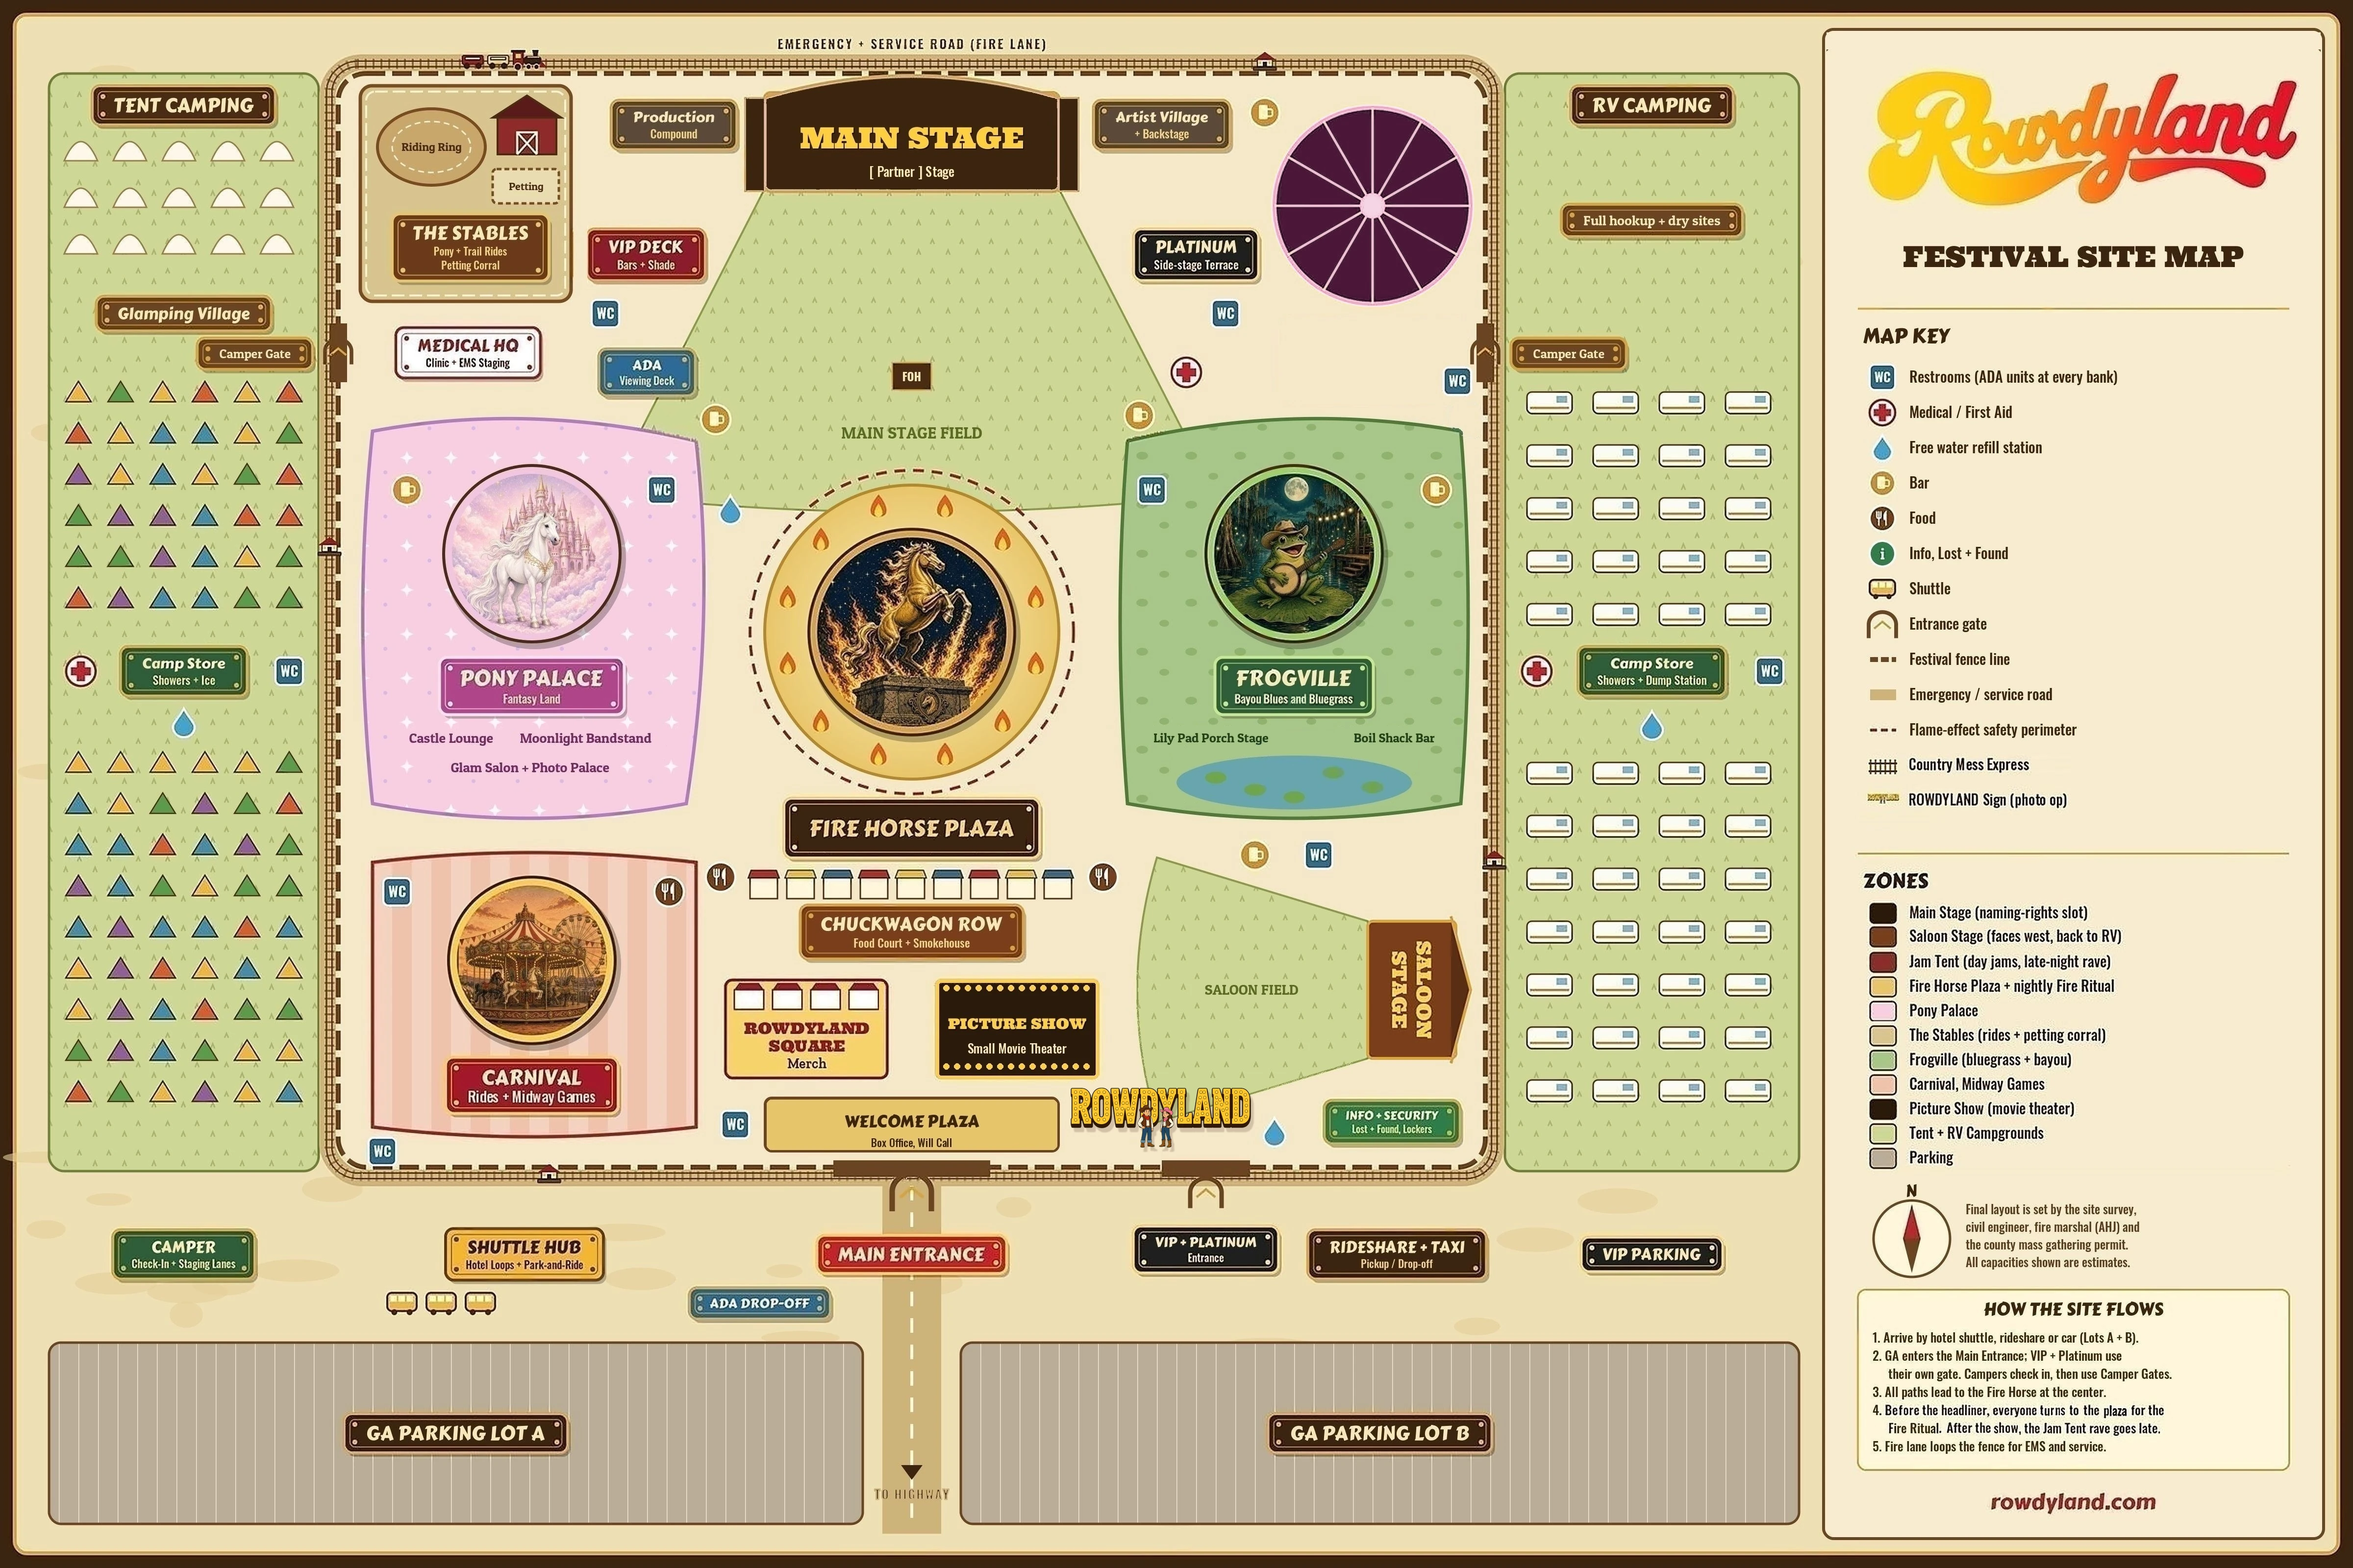
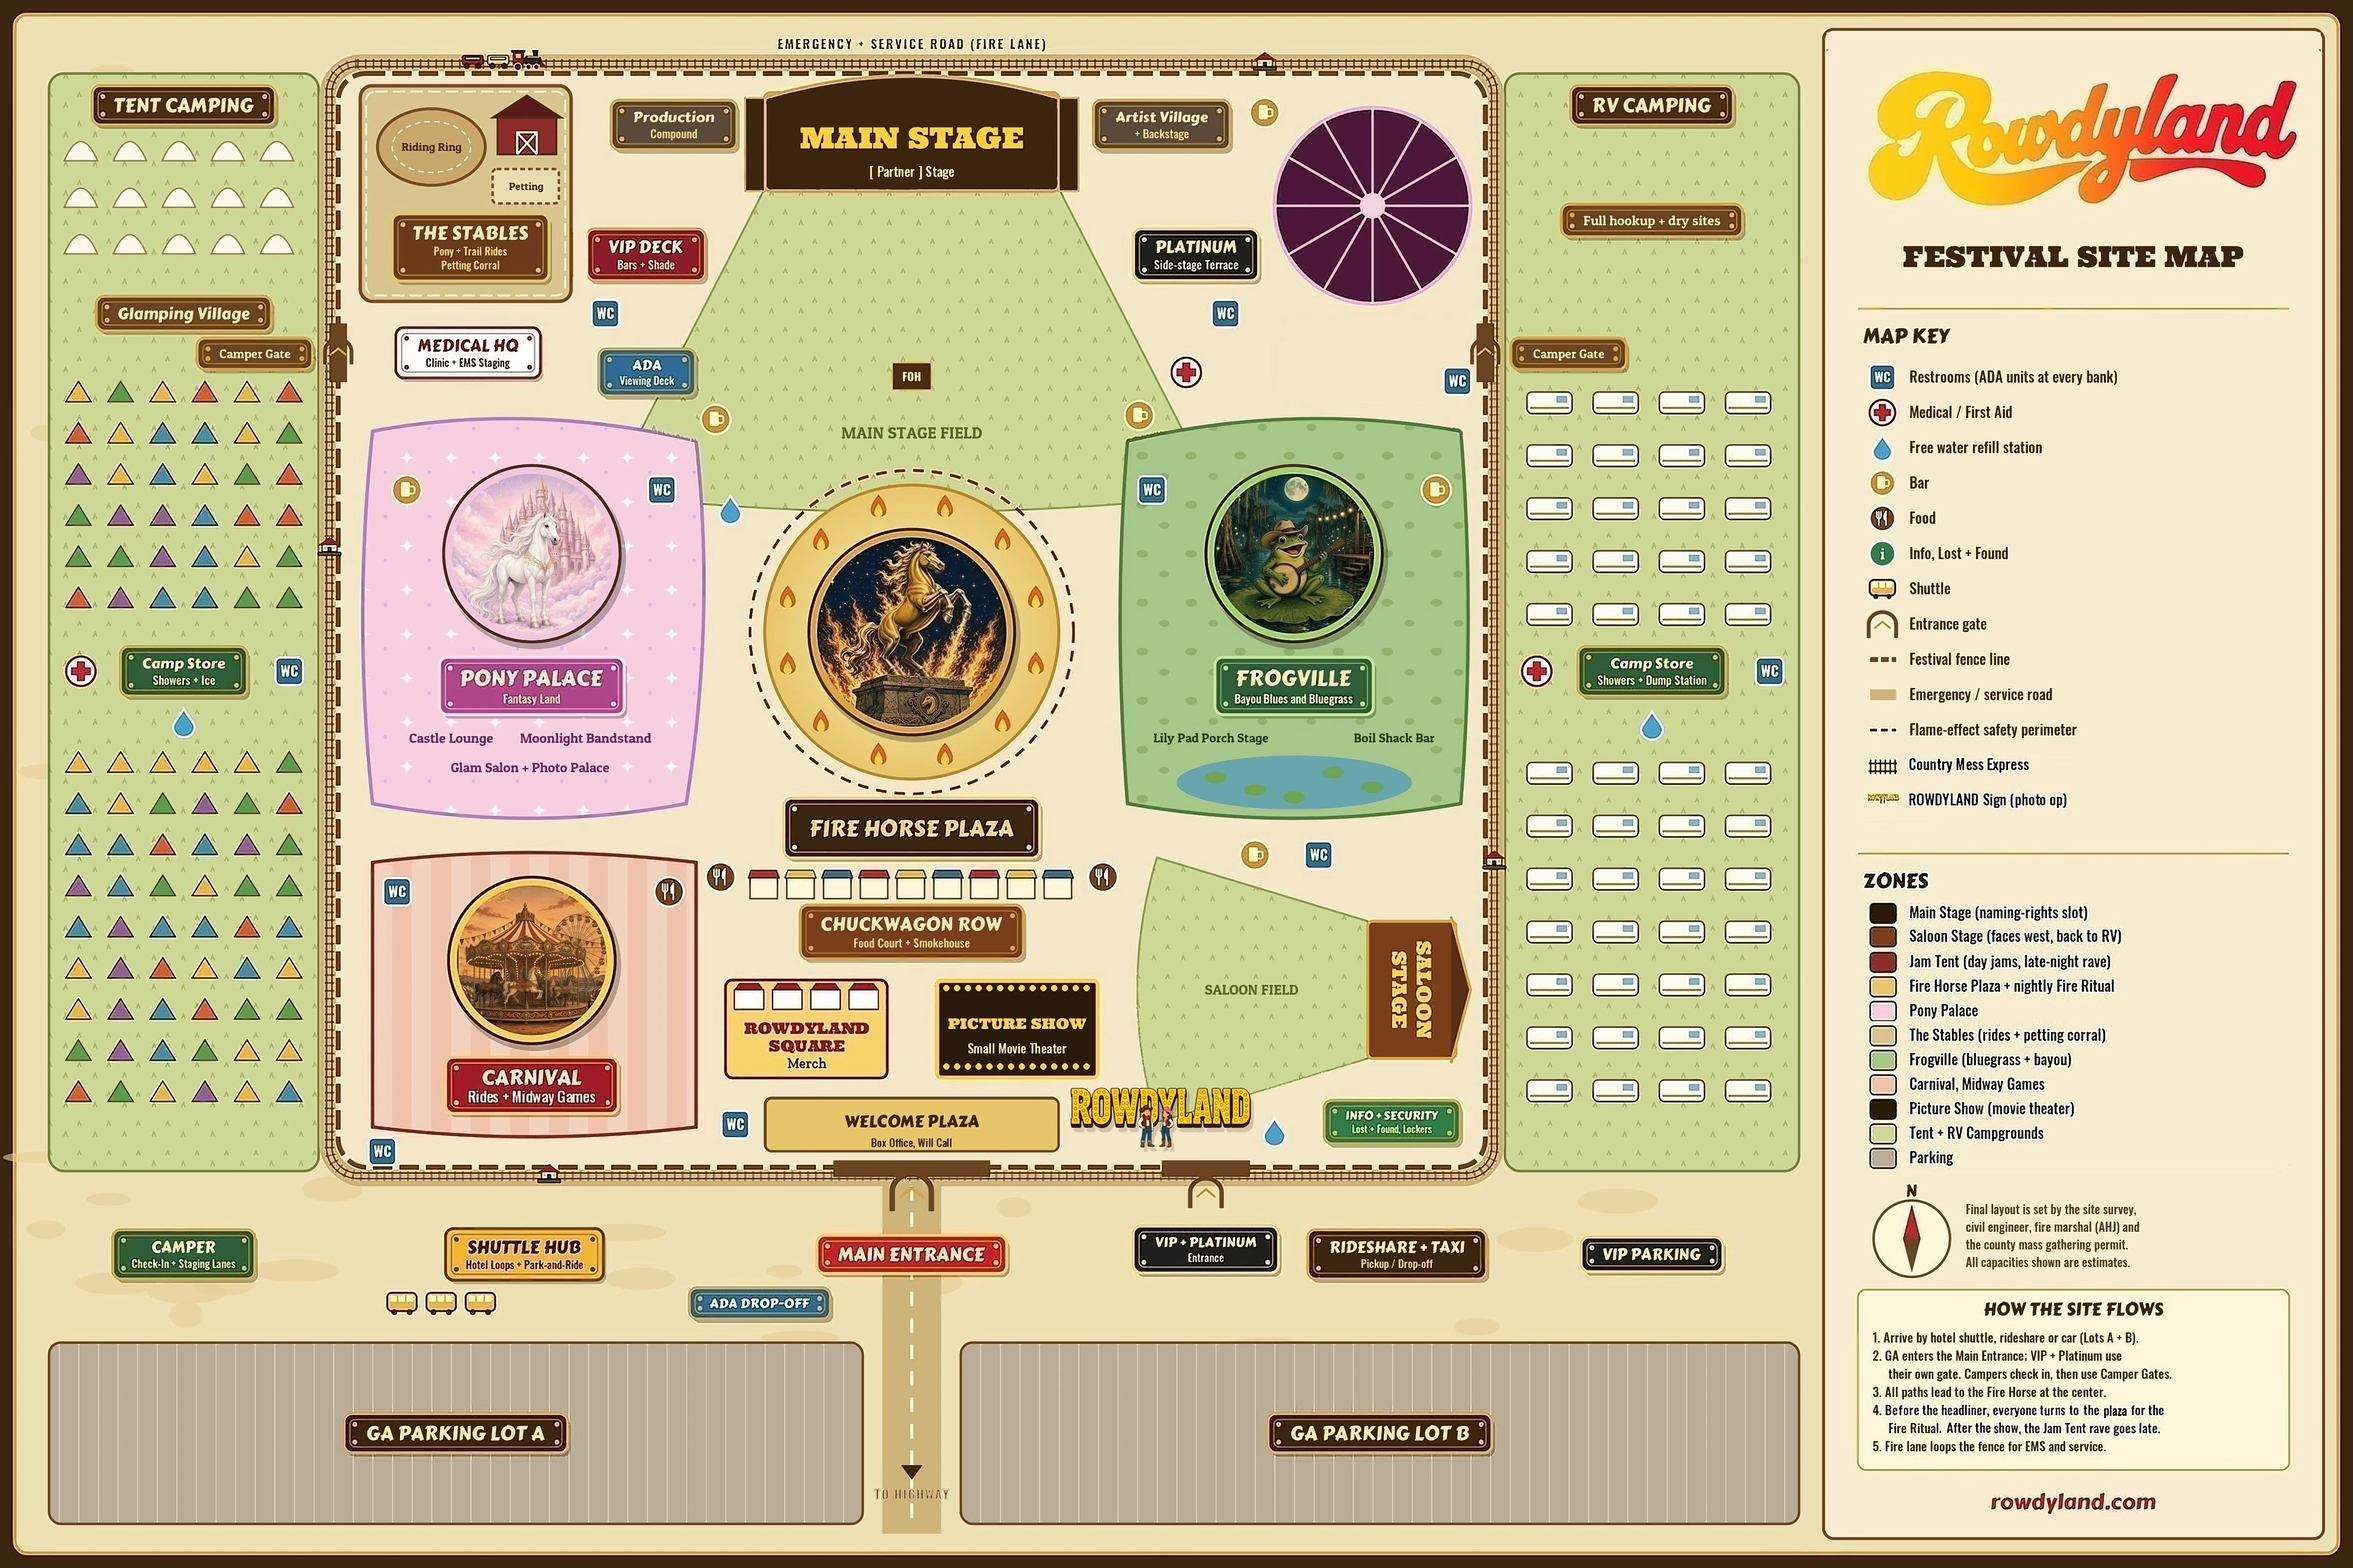
Map HD upgrade preview: 9600 master, edge-crisp upscale, lazy XHD tier on deep zoom (maphd1)

diff --git a/index.html b/index.html
@@ -103,7 +103,7 @@
         </div>
         <figure>
         <div class="map-frame"><div class="map-zoom"><div class="map-pan">
-          <picture><source srcset="assets/rowdyland-map.webp?v=mapfix13" type="image/webp"><img id="mapimg" src="assets/rowdyland-map.jpg?v=mapfix13" width="1600" height="1067" decoding="async" loading="eager" alt="Illustrated concept map of the Rowdyland festival grounds, showing the Main Stage, the Saloon Stage in the bottom right corner, The Stables horse area in the top left corner, Pony Palace, camping, and the fire ritual grounds."></picture>
+          <picture><source srcset="assets/rowdyland-map.webp?v=maphd1" type="image/webp"><img id="mapimg" src="assets/rowdyland-map.jpg?v=maphd1" width="1600" height="1067" decoding="async" loading="eager" alt="Illustrated concept map of the Rowdyland festival grounds, showing the Main Stage, the Saloon Stage in the bottom right corner, The Stables horse area in the top left corner, Pony Palace, camping, and the fire ritual grounds."></picture>
             <a class="zone zone-live" href="frogville/" data-zone="frogville" style="left:47.6%;top:26.4%;width:15.4%;height:27.8%"><span class="zone-tip">Frogville: leap inside!</span><span class="sr-only">Enter Frogville</span></a>
             <a class="zone zone-live" href="stables/" data-zone="stables" style="left:15.3%;top:5.4%;width:9.1%;height:13.4%"><span class="zone-tip">The Stables: saddle up!</span><span class="sr-only">Enter The Stables</span></a>
             <a class="zone zone-live" href="main-stage/" data-zone="main-stage" style="left:31.7%;top:4.5%;width:14.2%;height:8%"><span class="zone-tip">Main Stage: get up front!</span><span class="sr-only">Enter the Main Stage</span></a>
@@ -167,6 +167,6 @@
     <footer>
       <p>© 2026 ROWDYLAND™</p>
     </footer>
-  <script>(function(){function hd(){var i=document.getElementById('mapimg');if(!i)return;var w=document.createElement('canvas').toDataURL('image/webp').indexOf('image/webp')>0;var u='assets/rowdyland-map-hd.'+(w?'webp':'jpg')+'?v=mapfix13';var n=new Image();n.onload=function(){var s=i.parentNode.querySelector('source');if(s)s.srcset=u;i.src=u;};n.src=u;}if(document.readyState==='complete')setTimeout(hd,300);else addEventListener('load',function(){setTimeout(hd,300)});})();</script>
+  <script>(function(){var V='maphd1',w=document.createElement('canvas').toDataURL('image/webp').indexOf('image/webp')>0,ext=w?'webp':'jpg',xhd=0,cur=0;function swap(u,r){var i=document.getElementById('mapimg');if(!i)return;var n=new Image();n.onload=function(){if(r<cur)return;cur=r;var s=i.parentNode.querySelector('source');if(s)s.srcset=u;i.src=u;};n.src=u;}function hd(){swap('assets/rowdyland-map-hd.'+ext+'?v='+V,1);var p=document.querySelector('.map-pan');if(!p||!window.MutationObserver)return;var mo=new MutationObserver(function(){if(xhd)return;var m=/scale\(([\d.]+)\)/.exec(p.style.transform||''),z=m?parseFloat(m[1]):1;if(p.clientWidth*z*(window.devicePixelRatio||1)>5200){xhd=1;mo.disconnect();swap('assets/rowdyland-map-xhd.'+ext+'?v='+V,2);}});mo.observe(p,{attributes:true,attributeFilter:['style']});}if(document.readyState==='complete')setTimeout(hd,300);else addEventListener('load',function(){setTimeout(hd,300)});})();</script>
 </body>
 </html>
